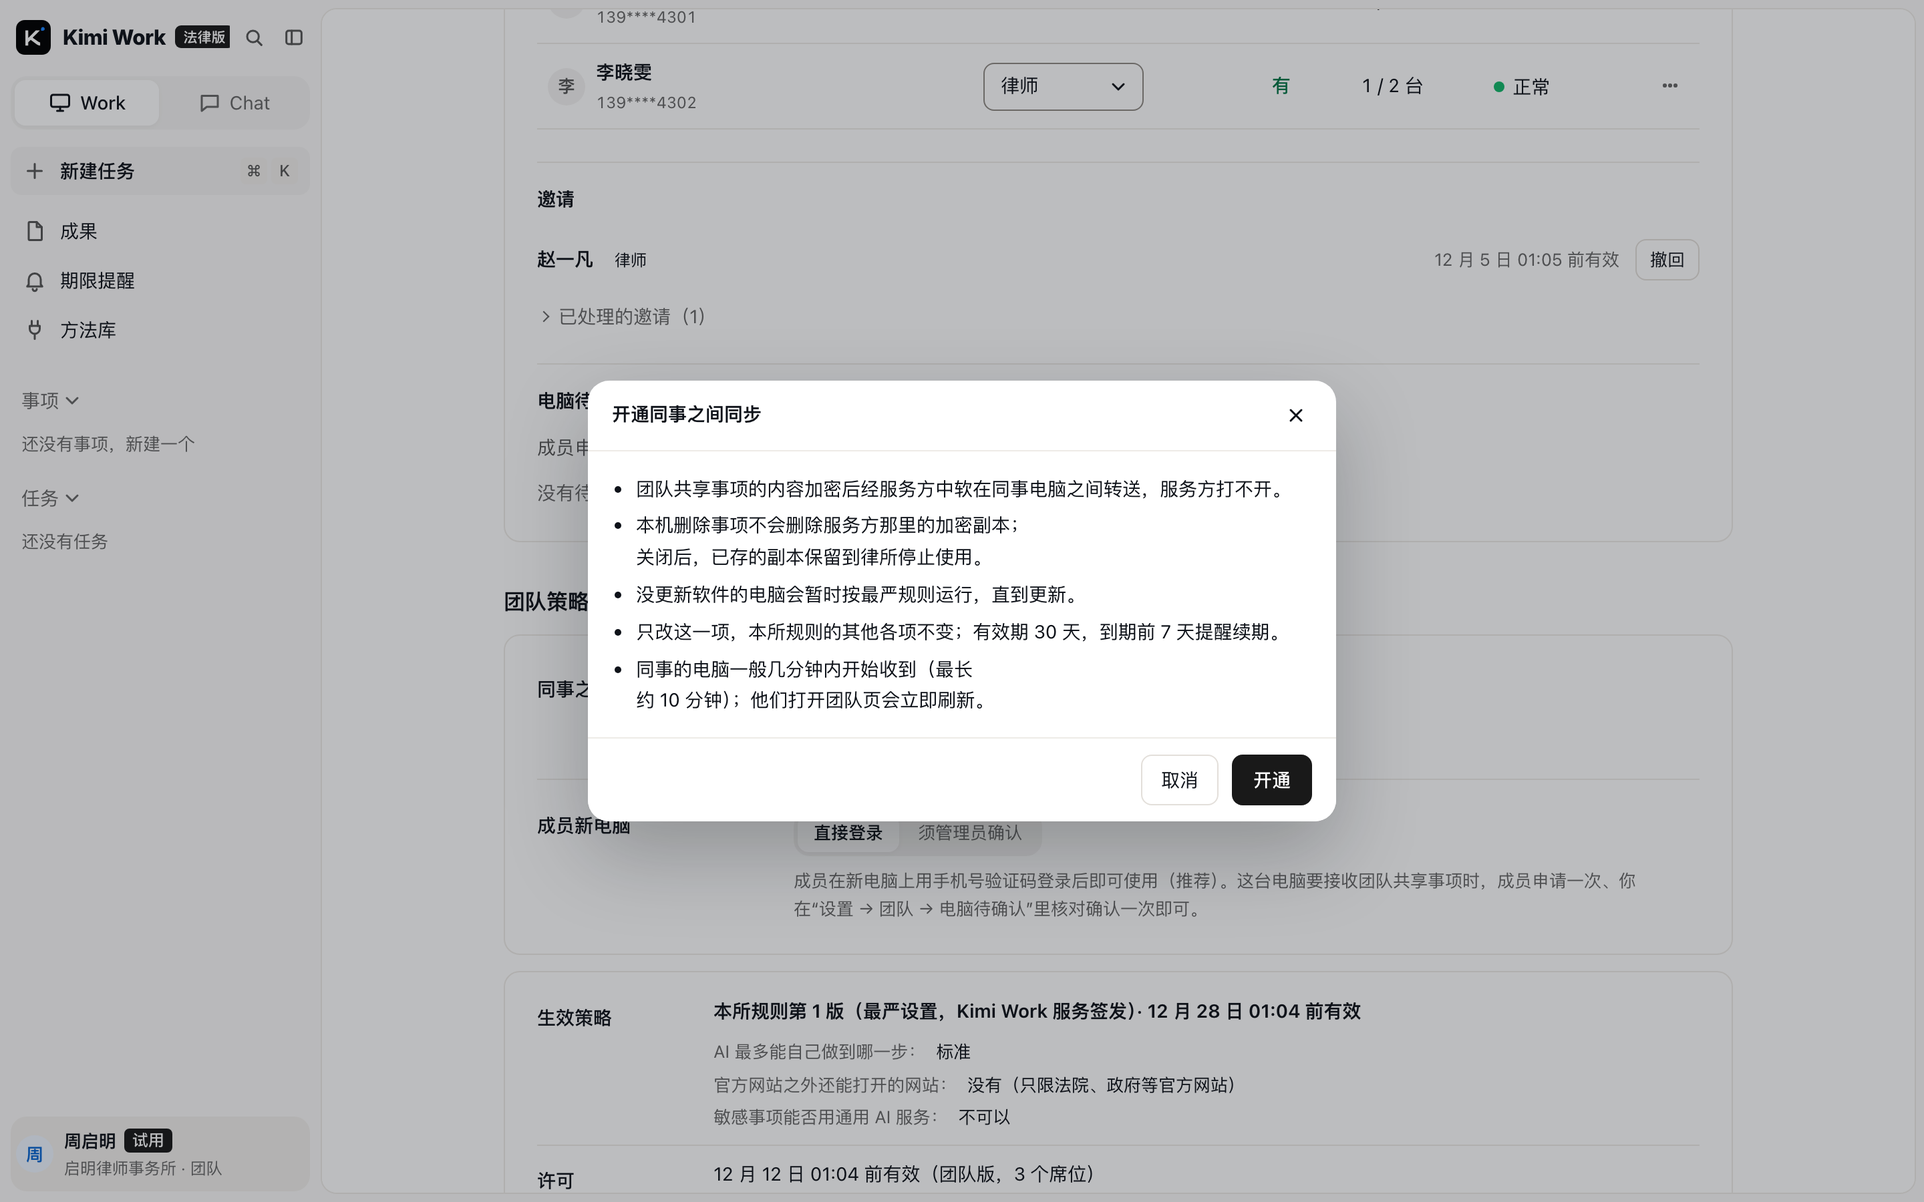
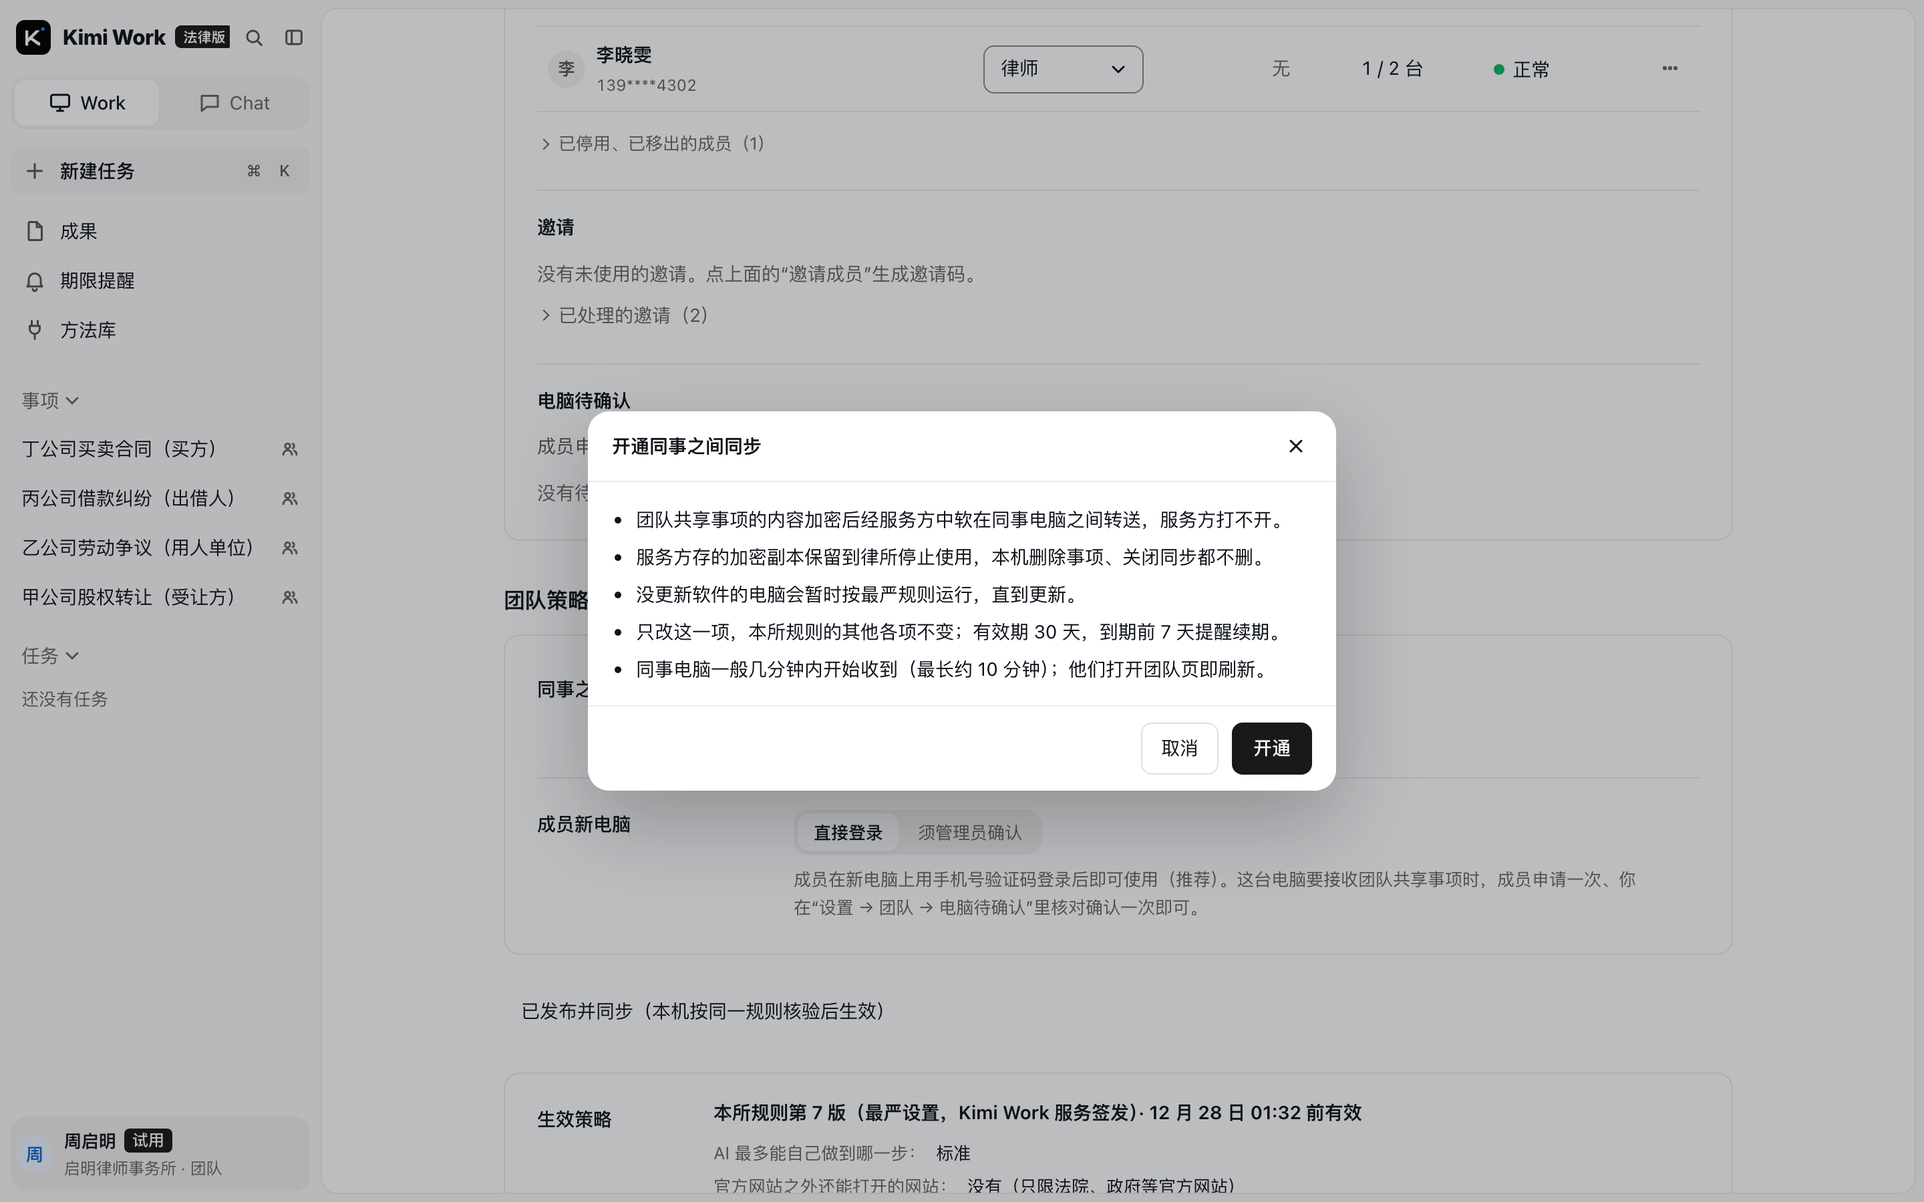
fix(desktop): 第 73 批收尾——去掉 balance 折行改写长句、旧云端律师侧补“恢复后自动可用”、删除回执编号显示前 8 位；授权卡读取失败的原因与重试放按钮旁；只看成员事项头不催授权；数据去向页补同事名单说明

diff --git a/platform/apps/desktop/src/components/MatterHeader.tsx b/platform/apps/desktop/src/components/MatterHeader.tsx
@@ -18,8 +18,10 @@ export function basisComplete(b: MatterBasis | undefined): boolean {
   return BASIS_FIELDS.every((f) => b[f.key] !== "pending");
 }
 
-export function MatterHeader({ matter, policy, onEditBasis, onToggleFullPseudonym, onParties, onConsentNotice, onClearRefusal, team, onMembers, removed = false }: {
+export function MatterHeader({ matter, policy, onEditBasis, onToggleFullPseudonym, onParties, onConsentNotice, onClearRefusal, team, onMembers, removed = false, viewer = false }: {
   matter: Matter;
+  /** 产品评分第二轮（13b）：只看成员——客户授权由负责人记录，不出“待记录 / 待重新确认”这类他自己处理不了的提示。 */
+  viewer?: boolean;
   /** 第 73 批收尾：负责人已把我移出——他已不能发起任务、记录授权，页头不再给“客户授权待记录”这类要行动的提示（保护状态胶囊、授权一行、待记录说明都不出）。 */
   removed?: boolean;
   policy?: RunPolicyView | null;
@@ -40,8 +42,12 @@ export function MatterHeader({ matter, policy, onEditBasis, onToggleFullPseudony
   const complete = matter.basis_complete ?? (!refused && basisComplete(basis));
   const dates = Object.entries(matter.key_dates ?? {}).filter(([, v]) => !!v);
   const fullPseudonym = !!matter.full_pseudonym || level === "L3a";
+  // 只看成员：授权没齐 / 待重新确认 / 待补记时不催他，写“由负责人记录客户授权”
+  const authzPending = !complete || matter.basis_state === "needs_ref" || matter.basis_state === "reconfirm";
   const protect =
-    refused || level === "L3b"
+    viewer && !refused && level !== "L3b" && authzPending
+      ? { icon: Icon.lock, label: "由负责人记录客户授权", tone: "pill-gray" }
+      : refused || level === "L3b"
       ? { icon: Icon.lock, label: "客户要求不上云 · 只用本机功能", tone: "pill-red" }
       : !complete
         ? // 第 56 批：新事项没有授权记录是常态，不写成“AI 暂不可用”的告警口吻——一句话说清状态和什么时候记
@@ -73,7 +79,7 @@ export function MatterHeader({ matter, policy, onEditBasis, onToggleFullPseudony
           <div className="protect-pop" role="group" aria-label="本事项的保护状态">
             <div className="protect-line">
               <span className="protect-k">客户授权</span>
-              <span title={complete && matter.basis_ref ? `授权依据出处：${matter.basis_ref}` : undefined}>{refused ? "客户要求不上云（已记录）" : complete ? authorizationLine(matter) : "尚未记录：第一次用 AI 时记录授权依据；在此之前只能用不联网的本机功能"}</span>
+              <span title={complete && matter.basis_ref ? `授权依据出处：${matter.basis_ref}` : undefined}>{refused ? "客户要求不上云（已记录）" : complete ? authorizationLine(matter) : viewer ? "尚未记录：由负责人记录客户授权" : "尚未记录：第一次用 AI 时记录授权依据；在此之前只能用不联网的本机功能"}</span>
               {onEditBasis && !refused && (
                 <button className="btn-link" onClick={onEditBasis}>
                   {complete ? "调整" : "记录授权"}
@@ -115,7 +121,7 @@ export function MatterHeader({ matter, policy, onEditBasis, onToggleFullPseudony
       </div>
       {/* D-225：客户授权一行只读，点开看每一次记录（只有 matters.get 带历史时显示） */}
       {/* 还没有任何记录时不再单列一行“尚未记录”（上面的胶囊已经说了；第 56 批走查：同一件事在事项头说了三遍） */}
-      {!removed && matter.authorization_history !== undefined && !refused && (complete || matter.authorization_history.length > 0) && <AuthorizationTrail matter={matter} onReconfirm={onEditBasis} />}
+      {!removed && !(viewer && authzPending) && matter.authorization_history !== undefined && !refused && (complete || matter.authorization_history.length > 0) && <AuthorizationTrail matter={matter} onReconfirm={onEditBasis} />}
       {refused && (
         <div className="mh-note mh-red">
           客户拒绝云端处理（已记录）：不用云端 AI，也不联网检索，只能用律所私有模型（如已部署）或本机能力；补填客户授权情况也不改变这一点。如已取得新的书面同意，核实后再清除这条记录。
@@ -126,7 +132,7 @@ export function MatterHeader({ matter, policy, onEditBasis, onToggleFullPseudony
           )}
         </div>
       )}
-      {!removed && basis && !complete && !refused && level !== "L3b" && (
+      {!removed && !viewer && basis && !complete && !refused && level !== "L3b" && (
         // 第 48 批：一句话说结果，待确认的具体项放悬停提示；入口是“记录授权”（与开始任务时同一种确认），告知函为辅
         <div className={`mh-note${basis.engagement === "pending" ? " mh-quiet" : ""}`} title={`待确认：${BASIS_FIELDS.filter((f) => basis[f.key] === "pending").map((f) => f.label).join("、")}`}>
           {/* 第 51 批（D-216）：新事项没有授权记录是常态——第一次用 AI 时“开始前确认”会请律师记录依据与出处；这里说清楚，也可以现在就记 */}

diff --git a/platform/apps/desktop/src/pages/Connections.tsx b/platform/apps/desktop/src/pages/Connections.tsx
@@ -30,7 +30,7 @@ import { AccountSection } from "../components/AccountPanel.tsx";
 import { SupportUpload } from "../components/SupportUpload.tsx";
 import { TeamShare } from "../components/TeamShare.tsx";
 import { POLICY_DRAFT_PRESET, SHARE_RELAY_CHANGED, SHARE_RELAY_RELOAD, ShareRelayExpiring, ShareRelayRow } from "../components/ShareRelayRow.tsx";
-import { relaxationText as relaxationLabel } from "../lib/team-matters.ts";
+import { relaxationText as relaxationLabel, TEAM_ROSTER_VISIBILITY_TEXT } from "../lib/team-matters.ts";
 import { MembersAdmin } from "../components/MembersAdmin.tsx";
 import { MemberDevicePolicy, TeamAdmin } from "../components/TeamAdmin.tsx";
 import { LeaveTeam, TeamHeader, WorkspaceSection } from "../components/TeamSpace.tsx";
@@ -281,6 +281,8 @@ function VisibilityTab({ gate, im, recovery, firm, syncOn }: { gate: any; im: an
   const [relayUsed, setRelayUsed] = useState(false);
   const [updatesOn, setUpdatesOn] = useState(false);
   const [contentOn, setContentOn] = useState(false);
+  // 产品评分第二轮（13b）：团队空间里同事名单彼此可见的范围如实写（姓名、角色、是否已分配 AI 使用名额；不含邮箱、手机号）
+  const inTeam = useWorkspace().kind === "team";
   useEffect(() => {
     api.exampleRequest().then(setExample).catch(() => setExample(null));
     // 本机经中继收发过：律所关闭开关后，已保存在中软的密文仍在（复核 S11B-10）
@@ -346,6 +348,7 @@ function VisibilityTab({ gate, im, recovery, firm, syncOn }: { gate: any; im: an
     ...(gate?.fetch === "local" ? [{ name: "打开公开网页", line: "网址由这台电脑直接发往该网站，不经中软" }] : []),
     ...(im.length > 0 ? [{ name: "从聊天工具转文件", line: "文字与文件经所用的聊天平台（如企业微信）传递" }] : []),
     ...(syncOn ? [{ name: "团队共享", line: "经律所指定的共享文件夹同步（加密）" }] : []),
+    ...(inTeam ? [{ name: "团队同事名单", line: TEAM_ROSTER_VISIBILITY_TEXT }] : []),
     ...(relayStored ? [{ name: "团队事项的加密副本", line: `中软打不开，只看得到大小、时间和哪几台电脑参与；保存到律所停止使用${relayOn ? "" : "；本所已关闭这一项，已存的仍在"}` }] : []),
     // 第 10 批 S9：期限提醒交中软通知服务——中软只保存提醒时间与接收设备，内容加密
     ...(gate?.notify_configured ? [{ name: "电脑关机时的期限提醒", line: "中软只保存响铃时间和接收电脑，提醒内容加密；响过 7 天后删除" }] : []),

diff --git a/platform/apps/desktop/src/components/MatterLifecycle.tsx b/platform/apps/desktop/src/components/MatterLifecycle.tsx
@@ -8,7 +8,7 @@ import { api, type DeletionReceiptView, type Matter, type MatterLifecycle } from
 import { fmtTime } from "../lib/labels.ts";
 import { notifyDataChanged } from "../lib/events.ts";
 import { Select } from "./Select.tsx";
-import { receiptRestoreText, receiptRows, receiptTitle } from "../lib/deletion-receipt.ts";
+import { receiptRestoreText, receiptRows, receiptTitle, shortReceiptId } from "../lib/deletion-receipt.ts";
 
 const YEAR_CHOICES = [1, 3, 5, 10, 15, 20, 30];
 const COPY_STATUS: Record<string, string> = { deleted: "已删除", pending: "待处理", irrevocable: "不可撤回", kept: "保留（未删除）", none: "不涉及" };
@@ -233,7 +233,7 @@ export function DeletionReceipt({ view, title = null }: { view: DeletionReceiptV
       </div>
       <p className="muted receipt-sub">
         删除于 {fmtTime(r.purged_at)}
-        {r.early ? `（提前删除：${r.reason ?? ""}）` : ""} · 回执编号 {r.receipt_id}
+        {r.early ? `（提前删除：${r.reason ?? ""}）` : ""} · 回执编号 {shortReceiptId(r.receipt_id)}
       </p>
       <table className="data receipt-copies">
         <thead><tr><th>副本在哪里</th><th className="receipt-st">现在</th></tr></thead>
@@ -249,7 +249,8 @@ export function DeletionReceipt({ view, title = null }: { view: DeletionReceiptV
       <p className="receipt-restore">{receiptRestoreText(localCopy)}</p>
       <details>
         <summary>删除清单</summary>
-        {/* 内核签名回执的原话，原样保留供核对 */}
+        {/* 内核签名回执的原话，原样保留供核对；完整回执编号在这里（正文只写前 8 位，11d） */}
+        <p className="muted receipt-full-id">回执编号：<span className="mono">{r.receipt_id}</span></p>
         <table className="data receipt-detail">
           <thead><tr><th>副本所在</th><th className="receipt-st">状态</th><th>说明</th></tr></thead>
           <tbody>

diff --git a/platform/apps/desktop/src/components/RunSheet.tsx b/platform/apps/desktop/src/components/RunSheet.tsx
@@ -324,16 +324,6 @@ export function RunSheet({ pending, onClose }: { pending: PendingStart; onClose:
             endpoint={matter.model_endpoint}
             basis={matter.basis}
           />
-          {!scopeReady.ready && scopeReady.note && (
-            <div className="mm-notice authz-scope-wait" role="status">
-              <span>{scopeReady.note}</span>
-              {scopeReady.retry && (
-                <button type="button" className="btn-link" onClick={() => setAuthzTick((t) => t + 1)}>
-                  重试
-                </button>
-              )}
-            </div>
-          )}
           <div className="authz-exits">
             <span>还没有取得授权？</span>
             <button type="button" className="btn-link" onClick={onClose}>
@@ -379,6 +369,17 @@ export function RunSheet({ pending, onClose }: { pending: PendingStart; onClose:
         </div>
       )}
       <div className="modal-actions modal-actions-sticky">
+        {/* 13b：读不到数据去向时的原因与“重试”放在按钮旁边（吸底，视口内可见），不只在卡片底部 */}
+        {consentBlocked && !scopeReady.ready && scopeReady.note && (
+          <span className="authz-wait-note" role="status">
+            {scopeReady.note}
+            {scopeReady.retry && (
+              <button type="button" className="btn-link" onClick={() => setAuthzTick((t) => t + 1)}>
+                重试
+              </button>
+            )}
+          </span>
+        )}
         <button className="btn-ghost" onClick={onClose}>返回修改</button>
         {blocked && !consentBlocked ? (
           <button className="btn-primary" disabled>

diff --git a/platform/apps/desktop/src/pages/Matter.tsx b/platform/apps/desktop/src/pages/Matter.tsx
@@ -428,6 +428,7 @@ export function MatterPage({ matterId }: { matterId: string }) {
           onParties={() => setTab("parties")}
           team={teamShared && !removedMe ? { view: members, error: membersErr } : null}
           removed={removedMe}
+          viewer={viewOnly}
           onMembers={() => setTab("members")}
           {...(locked
             ? {}
@@ -912,17 +913,18 @@ function BasisDialog({ matter, basis, endpoint, onClose, onSave }: { matter: Mat
           basis={basis}
         />
       )}
-      {!complete && !scopeReady.ready && scopeReady.note && (
-        <div className="mm-notice authz-scope-wait" role="status">
-          <span>{scopeReady.note}</span>
-          {scopeReady.retry && (
-            <button type="button" className="btn-link" onClick={() => setAuthzTick((t) => t + 1)}>
-              重试
-            </button>
-          )}
-        </div>
-      )}
       <div className="modal-actions">
+        {/* 13b：读不到数据去向时的原因与“重试”放在按钮旁边 */}
+        {!complete && !scopeReady.ready && scopeReady.note && (
+          <span className="authz-wait-note" role="status">
+            {scopeReady.note}
+            {scopeReady.retry && (
+              <button type="button" className="btn-link" onClick={() => setAuthzTick((t) => t + 1)}>
+                重试
+              </button>
+            )}
+          </span>
+        )}
         <button className="btn-ghost" onClick={onClose}>取消</button>
         <button
           className="btn-primary"

diff --git a/platform/apps/desktop/src/styles-authz.css b/platform/apps/desktop/src/styles-authz.css
@@ -65,3 +65,6 @@ button.authz-trail-line:hover { color: var(--text-primary); }
 .authz-scope-list > div { display: grid; grid-template-columns: 6.5em minmax(0, 1fr); gap: var(--sp-2); font-size: var(--fs-caption); line-height: 1.6; }
 .authz-dt-when { display: block; font-size: var(--fs-xs); color: var(--text-label); }
 .authz-always { margin: var(--sp-2) 0 0; font-size: var(--fs-caption); color: var(--text-secondary); }
+/* 13b：授权卡读不到数据去向时，原因与“重试”在底栏按钮左侧（吸底可见） */
+.authz-wait-note { margin-right: auto; display: inline-flex; align-items: center; gap: var(--sp-2); font-size: var(--fs-caption); color: var(--text-secondary); }
+.authz-wait-note .btn-link { padding: 0; font-size: var(--fs-caption); }

diff --git a/platform/apps/desktop/src/styles-team-matters.css b/platform/apps/desktop/src/styles-team-matters.css
@@ -161,7 +161,6 @@
 .menu-label .tag-removed { margin-left: 6px; }
 /* 11c T1（04）：“更多设置 / 收起更多设置”与字段左缘对齐，和下面的字段留出间距 */
 .nm-more-toggle { align-self: flex-start; padding: 0; margin: var(--sp-1) 0 var(--sp-3); }
-/* 11c T8（18）：确认框要点两行时均分，不留孤字行 */
-.relay-lines li { text-wrap: balance; }
+/* 11d：确认框要点不再按“均分”折行（会把括号拆行、看着像手动换行，960 / Windows 还会二次折行）——回到 styles.css 的 pretty，句子写短 */
 /* 被移出灰条里的“从我的电脑移除…”不折行（960 实拍折成两行） */
 .removed-me-note .btn-link { flex: none; white-space: nowrap; }

diff --git a/platform/apps/desktop/src/lib/deletion-receipt.ts b/platform/apps/desktop/src/lib/deletion-receipt.ts
@@ -67,3 +67,8 @@ export function receiptRestoreText(localCopy: boolean): string {
     ? "这台电脑上删除的内容无法恢复；负责人那边的事项照旧，需要时请负责人重新把你加进来。"
     : "删除的内容无法恢复；标为“待删除”的副本在对方电脑上线、或运维按事项处理后删除。";
 }
+
+/** 正文里的回执编号只写前 8 位（去掉 drc_ 前缀）；完整编号在“删除清单”与保存的删除证明里（11d）。纯函数。 */
+export function shortReceiptId(id: string): string {
+  return id.replace(/^drc_/, "").slice(0, 8);
+}

diff --git a/research/2026-11-27-V47-团队共享事项入口/impl-U-界面进度.md b/research/2026-11-27-V47-团队共享事项入口/impl-U-界面进度.md
@@ -330,3 +330,14 @@
 - P3-A：事项页得知负责人已把我移出（`matters.get.removed_me` 或成员页核对得到 removed）时 `notifyDataChanged()`（同一事项只一次）——侧栏 / 事项列表立刻重取，“团队共享”记号换成“已移出”，不用整页重开。实拍 `42e-b-removed-sidebar-live`：首页不重开，点开刚被移出的“丁公司买卖合同”，灰条出现后侧栏即为“已移出”。
 - P3-B：团队页“协作与离开”那一行的“没有名额”与事项成员页同一来源——打开时 `team.refresh_share_state` 返回的 sync（no_seat），另加同事名单里“我”`seat:false`（云端现取，与成员页同一份名单）；中继凭据报错仍算。实拍：管理员释放名额后 7 秒打开团队页即为“这台电脑已经管理员确认；但你还没有分配到 AI 使用名额……”，与事项成员页一致（`43b-b-team-share-no-seat-fresh`；原来 1～6 分钟内仍写“已可接收 · 已开通 [立即同步]”）。
 - 用例 742 全过，tsc 过；实例 qa15-a（5923/8023）、qa15-b（5922/8022）复用已有工作区，未发短信，已停。
+
+## 第四轮小项（11d）+ 产品评分第二轮三项（13b）（未提交）
+
+- 11d ①：确认框要点不再按“均分”折行（上一轮为避孤字加的 `text-wrap: balance` 会把括号拆行、看着像手动断行），回到全局 `text-wrap: pretty`，并把句子写短（开通确认框第 2 条“服务方存的加密副本保留到律所停止使用，本机删除事项、关闭同步都不删。”、末条“同事电脑一般几分钟内开始收到（最长约 10 分钟）；他们打开团队页即刷新。”；从我的电脑移除三条改短）。本批新增文案里没有 `<br>` / `\n` 硬换行（用例门禁）。
+- 11d ②：43u 律师侧“团队共享暂时用不了，不影响只有我的事项；恢复后自动可用，无需操作。”（名单处、出错句同口径）。
+- 11d ③：删除回执正文编号只写前 8 位（去 drc_ 前缀），完整编号放在“删除清单”首行与保存的删除证明里。
+- 13b ①：授权卡读不到数据去向时，原因与“重试”放在底栏按钮左侧（开始前确认吸底、事项页“记录授权”弹窗底栏），不再只在卡片底部。
+- 13b ②：只看成员的事项头不出“客户授权待记录 / 待重新确认 / 待补记”与“记录之前只用本机功能…”，保护状态胶囊改灰色“由负责人记录客户授权”，展开里写“尚未记录：由负责人记录客户授权”；被移出的人上一轮已整块不出。
+- 13b ③：设置 → 数据去向说明“其他会联网的功能”在团队空间补一条“团队同事名单：团队同事能看到彼此的姓名、角色以及是否已分配 AI 使用名额（不含邮箱、手机号）”。
+- 补拍到 ui-r3（复用 qa15 工作区，甲 5923/8023、乙 5922/8022，未发短信，已停）：18（关闭后“重新开通…”的确认框，960 无孤字、无拆括号）、42b（三条短句）、42c（编号前 8 位）。
+- 用例 744 全过，tsc 过。
